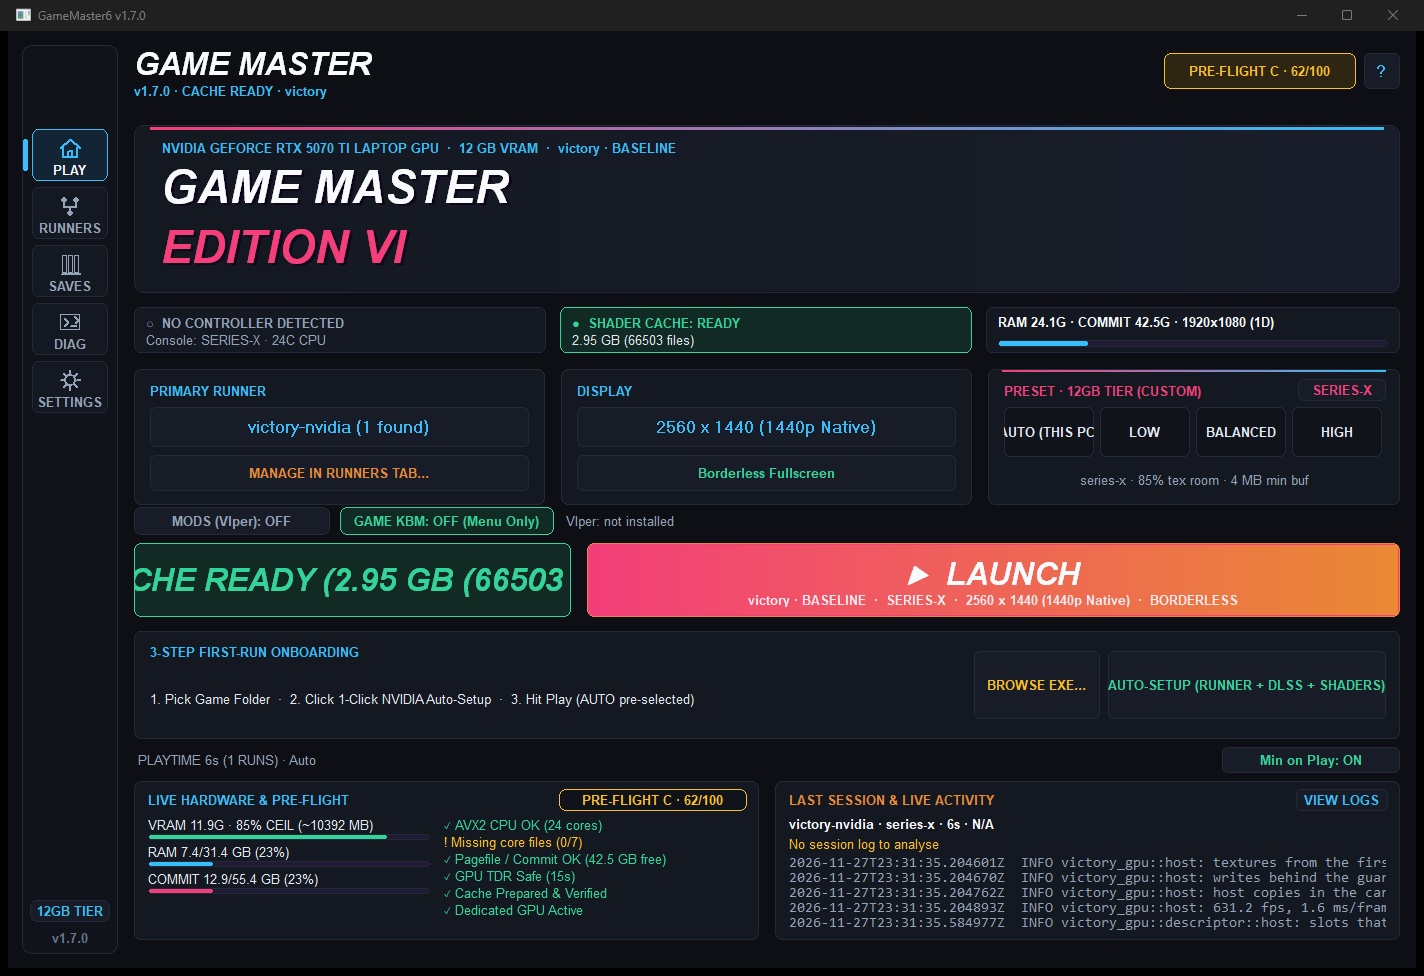
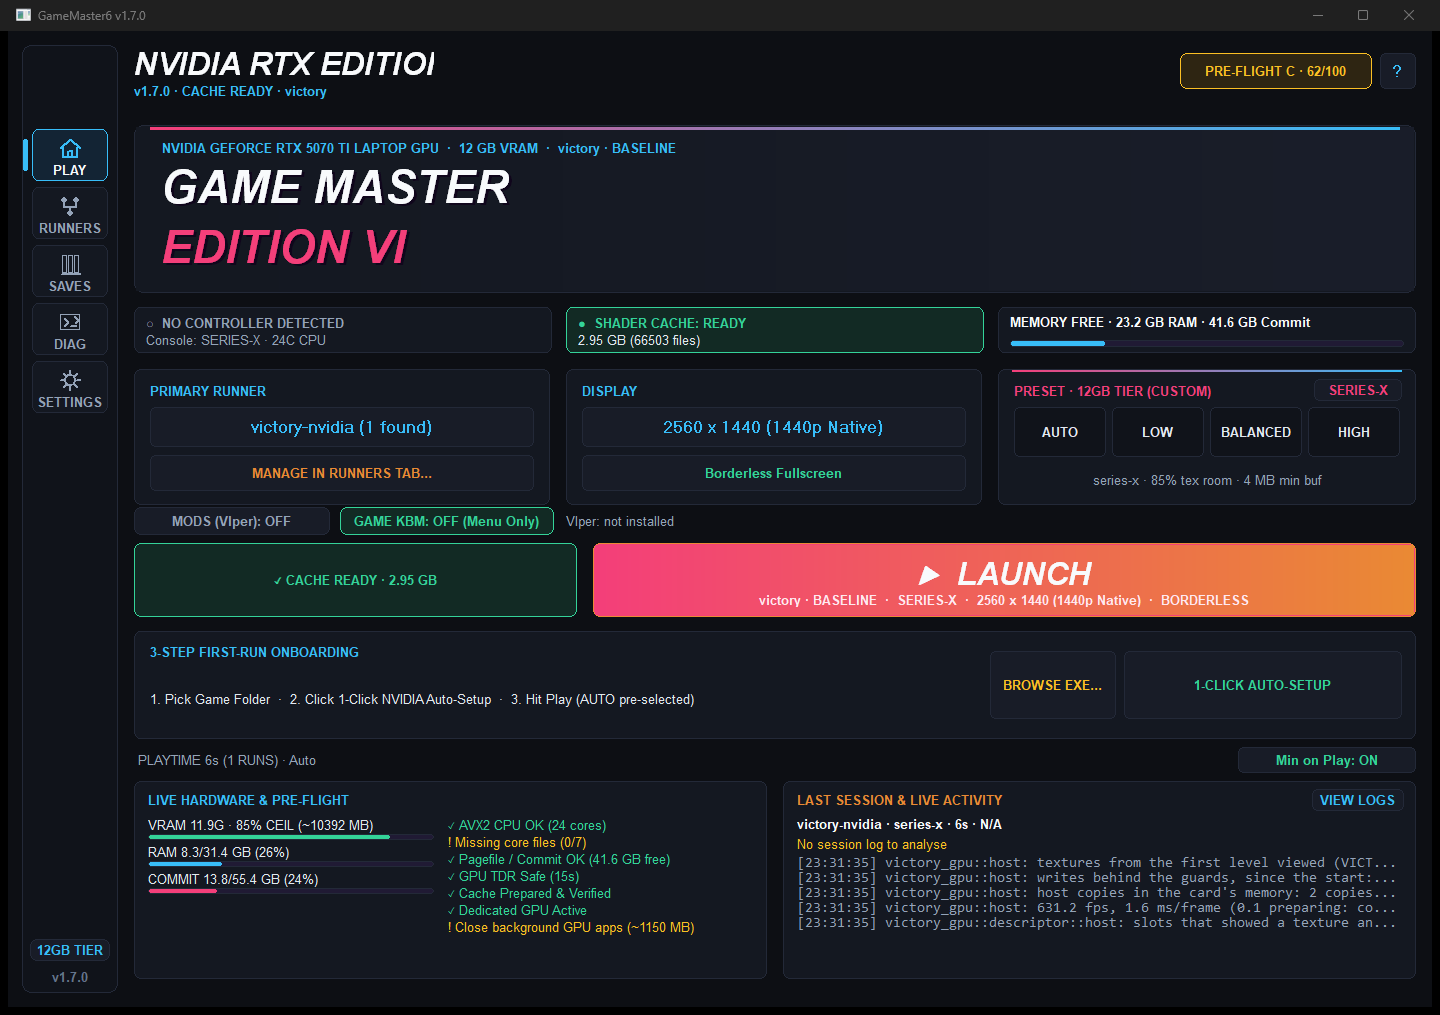
ui: polish PLAY tab layout, eliminate text clipping, refresh README screenshot

diff --git a/src/render.rs b/src/render.rs
@@ -206,6 +206,29 @@ pub const SHADER_PRESETS: [&str; 6] = ["AUTO", "64", "128", "256", "512", "1024"
 pub const LOG_LEVELS: [&str; 4] = ["info", "warn", "diagnostics", "trace"];
 pub const TUNING_SCROLL_STEP: usize = 32;
 
+/// Compact a verbose runner log line for the small LIVE ACTIVITY preview:
+/// `[HH:MM:SS] message`, with the ISO timestamp and level word removed.
+fn compact_log_line(line: &str) -> String {
+    let t = line.trim();
+    let time = t
+        .find('T')
+        .and_then(|p| t.get(p + 1..p + 9))
+        .filter(|s| s.bytes().all(|b| b.is_ascii_digit() || b == b':'))
+        .unwrap_or("");
+    let mut rest = t.find('Z').map_or(t, |z| &t[z + 1..]).trim();
+    for level in ["INFO ", "WARN ", "ERROR ", "DEBUG ", "TRACE "] {
+        if let Some(r) = rest.strip_prefix(level) {
+            rest = r;
+            break;
+        }
+    }
+    if time.is_empty() {
+        rest.to_string()
+    } else {
+        format!("[{time}] {rest}")
+    }
+}
+
 pub fn tuning_max_scroll(client_h: c_int) -> usize {
     let r_bottom = client_h - 152;
     let view_h = (r_bottom - 166).max(300);
@@ -819,8 +842,8 @@ pub unsafe fn paint(hdc: HDC, w: c_int, h: c_int, ctx: &RenderContext) -> Vec<(R
     // 4. Top Header Bar
     draw_text(
         hdc,
-        "GAME MASTER",
-        RECT::new(main_l, 16, main_l + 260, 50),
+        "NVIDIA RTX EDITION",
+        RECT::new(main_l, 16, main_l + 300, 50),
         ctx.fonts.title,
         COL_WHITE,
         DT_LEFT | DT_VCENTER | DT_SINGLELINE,
@@ -1134,12 +1157,10 @@ unsafe fn draw_home(hdc: HDC, r: RECT, ctx: &RenderContext, hits: &mut Vec<(RECT
     let mem_r = RECT::new(r.left + (s_w + s_gap) * 2, strip_y, r.right, strip_y + strip_h);
     let commit_ok = ctx.sys.commit_healthy() && !ctx.sys.pagefile_pending_reboot;
     rounded_rect(hdc, mem_r, if commit_ok { COL_PANEL } else { COL_AMBER_BG }, if commit_ok { COL_BORDER } else { COL_AMBER }, 12);
-    let disp_tag = if ctx.sys.primary_res.is_empty() {
-        format!("{}D", ctx.sys.display_count.max(1))
-    } else {
-        format!("{} ({}D)", ctx.sys.primary_res, ctx.sys.display_count.max(1))
-    };
-    let mem_lbl = format!("RAM {:.1}G · COMMIT {:.1}G · {}", ctx.sys.avail_ram_gb, ctx.sys.avail_commit_gb, disp_tag);
+    let mem_lbl = format!(
+        "MEMORY FREE · {:.1} GB RAM · {:.1} GB Commit",
+        ctx.sys.avail_ram_gb, ctx.sys.avail_commit_gb
+    );
     draw_text(hdc, &mem_lbl, RECT::new(mem_r.left + 12, mem_r.top + 5, mem_r.right - 12, mem_r.top + 25), ctx.fonts.small_bold, if commit_ok { COL_WHITE } else { COL_AMBER }, DT_LEFT | DT_VCENTER | DT_SINGLELINE);
     let commit_pct = if ctx.sys.total_commit_gb > 0.1 {
         (((ctx.sys.total_commit_gb - ctx.sys.avail_commit_gb) / ctx.sys.total_commit_gb) * 100.0).clamp(2.0, 100.0) as u32
@@ -1224,14 +1245,14 @@ unsafe fn draw_home(hdc: HDC, r: RECT, ctx: &RenderContext, hits: &mut Vec<(RECT
     let p_gap = 6;
     let p_w = (preset_r.width() - 32 - p_gap * 3) / 4;
     let auto_active = active_preset == crate::presets::PresetKind::Auto;
-    // AUTO (THIS PC) first
+    // AUTO first
     {
         let pr = RECT::new(preset_r.left + 16, preset_r.top + 38, preset_r.left + 16 + p_w, preset_r.top + 88);
         let hov = ctx.hover == Target::ApplyPresetAuto;
         let bg = if auto_active { COL_CYAN_BG } else if hov { COL_PANEL_HOVER } else { COL_SIDEBAR };
         let bd = if auto_active { COL_PINK } else if hov { COL_BORDER_HI } else { COL_BORDER };
         rounded_rect(hdc, pr, bg, bd, 10);
-        draw_text(hdc, "AUTO (THIS PC)", pr, ctx.fonts.small_bold, if auto_active { COL_PINK } else { COL_TEXT }, DT_CENTER | DT_VCENTER | DT_SINGLELINE);
+        draw_text(hdc, "AUTO", pr, ctx.fonts.small_bold, if auto_active { COL_PINK } else { COL_TEXT }, DT_CENTER | DT_VCENTER | DT_SINGLELINE);
         hits.push((pr, Target::ApplyPresetAuto));
     }
     let presets = [
@@ -1275,7 +1296,14 @@ unsafe fn draw_home(hdc: HDC, r: RECT, ctx: &RenderContext, hits: &mut Vec<(RECT
         if ctx.hover == Target::ToggleViper { COL_BORDER_HI } else { vp_bd },
         12,
     );
-    draw_text(hdc, vp_lbl, vp_r, ctx.fonts.small_bold, vp_fg, DT_CENTER | DT_VCENTER | DT_SINGLELINE);
+    draw_text(
+        hdc,
+        vp_lbl,
+        RECT::new(vp_r.left + 10, vp_r.top + 2, vp_r.right - 10, vp_r.bottom - 2),
+        ctx.fonts.small_bold,
+        vp_fg,
+        DT_END_ELLIPSIS | DT_CENTER | DT_VCENTER | DT_SINGLELINE,
+    );
     hits.push((vp_r, Target::ToggleViper));
 
     // GAME KBM: OFF keeps mouse out of the title and stops WASD merging into pad 0,
@@ -1293,10 +1321,10 @@ unsafe fn draw_home(hdc: HDC, r: RECT, ctx: &RenderContext, hits: &mut Vec<(RECT
     draw_text(
         hdc,
         kb_lbl,
-        kb_r,
+        RECT::new(kb_r.left + 10, kb_r.top + 2, kb_r.right - 10, kb_r.bottom - 2),
         ctx.fonts.small_bold,
         if kb_on { COL_MUTED } else { COL_EMERALD },
-        DT_CENTER | DT_VCENTER | DT_SINGLELINE,
+        DT_END_ELLIPSIS | DT_CENTER | DT_VCENTER | DT_SINGLELINE,
     );
     hits.push((kb_r, Target::ToggleGameKbm));
 
@@ -1349,18 +1377,26 @@ unsafe fn draw_home(hdc: HDC, r: RECT, ctx: &RenderContext, hits: &mut Vec<(RECT
         let lbl = format!("PREPARING CACHE... {}% ({})", pct, ctx.audit.shader_cache_label);
         draw_text(hdc, &lbl, RECT::new(prep_r.left + 12, prep_r.top + 8, prep_r.right - 12, prep_r.bottom - 22), ctx.fonts.body_bold, COL_AMBER, DT_CENTER | DT_VCENTER | DT_SINGLELINE);
     } else {
+        let cache_size = ctx
+            .audit
+            .shader_cache_label
+            .split('(')
+            .next()
+            .unwrap_or(&ctx.audit.shader_cache_label)
+            .trim();
         let prep_lbl = if cache_ready {
-            format!("✓  CACHE READY ({})", ctx.audit.shader_cache_label)
+            format!("✓ CACHE READY · {cache_size}")
         } else {
             "PREPARE CACHE".into()
         };
+        let prep_text_r = RECT::new(prep_r.left + 16, prep_r.top + 2, prep_r.right - 16, prep_r.bottom - 2);
         draw_text(
             hdc,
             &prep_lbl,
-            prep_r,
-            ctx.fonts.title,
+            prep_text_r,
+            ctx.fonts.small_bold,
             if cache_ready { COL_EMERALD } else { COL_CYAN },
-            DT_CENTER | DT_VCENTER | DT_SINGLELINE,
+            DT_END_ELLIPSIS | DT_CENTER | DT_VCENTER | DT_SINGLELINE,
         );
     }
     hits.push((prep_r, Target::Prepare));
@@ -1447,7 +1483,7 @@ unsafe fn draw_home(hdc: HDC, r: RECT, ctx: &RenderContext, hits: &mut Vec<(RECT
             let step3 = if ctx.settings.active_preset.eq_ignore_ascii_case("auto") { "3. Hit Play (AUTO pre-selected)" } else { "3. Hit Play" };
             draw_text(hdc, &format!("{step1}  ·  {step2}  ·  {step3}"), RECT::new(cr.left + 16, cr.top + 38, cr.right - 360, cr.bottom - 10), ctx.fonts.small, COL_TEXT, DT_LEFT | DT_VCENTER | DT_SINGLELINE);
             let auto_r = RECT::new(cr.right - 292, cr.top + 20, cr.right - 14, cr.bottom - 20);
-            draw_button(hdc, auto_r, "AUTO-SETUP (RUNNER + DLSS + SHADERS)", ctx.fonts.small_bold, ctx.hover == Target::OneClickAutoSetup, COL_EMERALD, Target::OneClickAutoSetup, hits);
+            draw_button(hdc, auto_r, "1-CLICK AUTO-SETUP", ctx.fonts.small_bold, ctx.hover == Target::OneClickAutoSetup, COL_EMERALD, Target::OneClickAutoSetup, hits);
             let br_r = RECT::new(auto_r.left - 134, cr.top + 20, auto_r.left - 8, cr.bottom - 20);
             draw_button(hdc, br_r, "BROWSE EXE...", ctx.fonts.small_bold, ctx.hover == Target::BrowseExe, COL_AMBER, Target::BrowseExe, hits);
             card_bottom = cr.bottom;
@@ -1549,13 +1585,10 @@ unsafe fn draw_home(hdc: HDC, r: RECT, ctx: &RenderContext, hits: &mut Vec<(RECT
         // Left Card: LIVE HARDWARE & PRE-FLIGHT BREAKDOWN
         rounded_rect(hdc, left_card, COL_PANEL, COL_BORDER, 14);
         let pf = crate::preflight::evaluate(ctx.settings, ctx.sys, ctx.audit);
-        let pf_col = if pf.score >= 92 { COL_EMERALD } else if pf.score >= 75 { COL_CYAN } else { COL_AMBER };
-        let pf_badge_r = RECT::new(left_card.right - 200, left_card.top + 8, left_card.right - 12, left_card.top + 30);
-        draw_pill(hdc, pf_badge_r, &pf.summary, ctx.fonts.small_bold, COL_SIDEBAR, pf_col, pf_col);
         draw_text(
             hdc,
             "LIVE HARDWARE & PRE-FLIGHT",
-            RECT::new(left_card.left + 14, left_card.top + 8, pf_badge_r.left - 8, left_card.top + 30),
+            RECT::new(left_card.left + 14, left_card.top + 8, left_card.right - 14, left_card.top + 30),
             ctx.fonts.small_bold,
             COL_CYAN,
             DT_LEFT | DT_VCENTER | DT_SINGLELINE,
@@ -1645,7 +1678,7 @@ unsafe fn draw_home(hdc: HDC, r: RECT, ctx: &RenderContext, hits: &mut Vec<(RECT
             RECT::new(right_card.left + 14, ry, right_card.right - 14, ry + 18),
             ctx.fonts.small_bold,
             COL_WHITE,
-            DT_LEFT | DT_VCENTER | DT_SINGLELINE,
+            DT_LEFT | DT_VCENTER | DT_SINGLELINE | DT_END_ELLIPSIS,
         );
         ry += 20;
         // v1.7.0: one-line bottleneck verdict from the newest session log.
@@ -1657,7 +1690,7 @@ unsafe fn draw_home(hdc: HDC, r: RECT, ctx: &RenderContext, hits: &mut Vec<(RECT
             RECT::new(right_card.left + 14, ry, right_card.right - 14, ry + 18),
             ctx.fonts.small,
             verdict_col,
-            DT_LEFT | DT_VCENTER | DT_SINGLELINE,
+            DT_LEFT | DT_VCENTER | DT_SINGLELINE | DT_END_ELLIPSIS,
         );
         ry += 20;
 
@@ -1691,13 +1724,14 @@ unsafe fn draw_home(hdc: HDC, r: RECT, ctx: &RenderContext, hits: &mut Vec<(RECT
                 } else {
                     COL_MUTED
                 };
+                let short = compact_log_line(line);
                 draw_text(
                     hdc,
-                    line,
+                    &short,
                     RECT::new(right_card.left + 14, ry, right_card.right - 14, ry + 15),
                     ctx.fonts.mono,
                     col,
-                    DT_LEFT | DT_VCENTER | DT_SINGLELINE,
+                    DT_LEFT | DT_VCENTER | DT_SINGLELINE | DT_END_ELLIPSIS,
                 );
                 ry += 15;
             }
